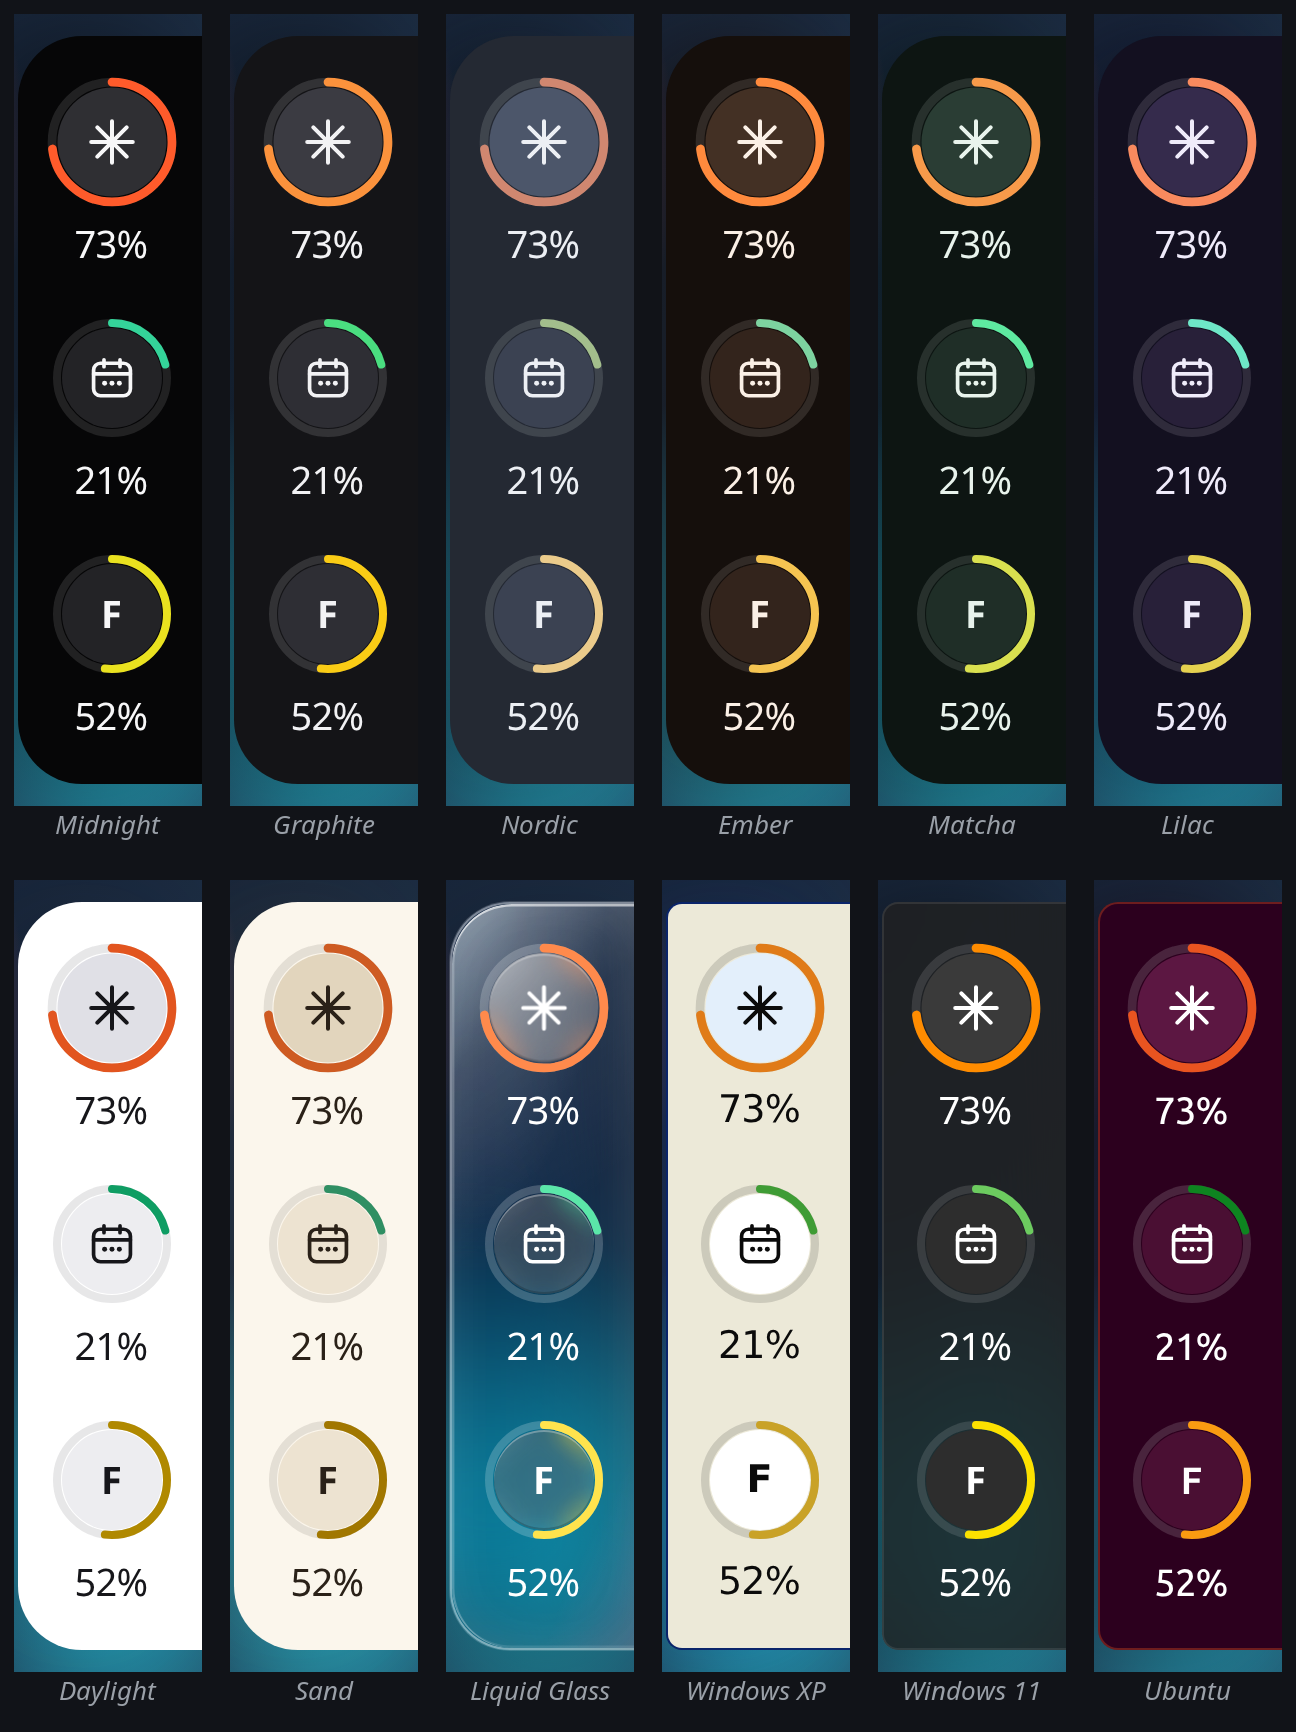
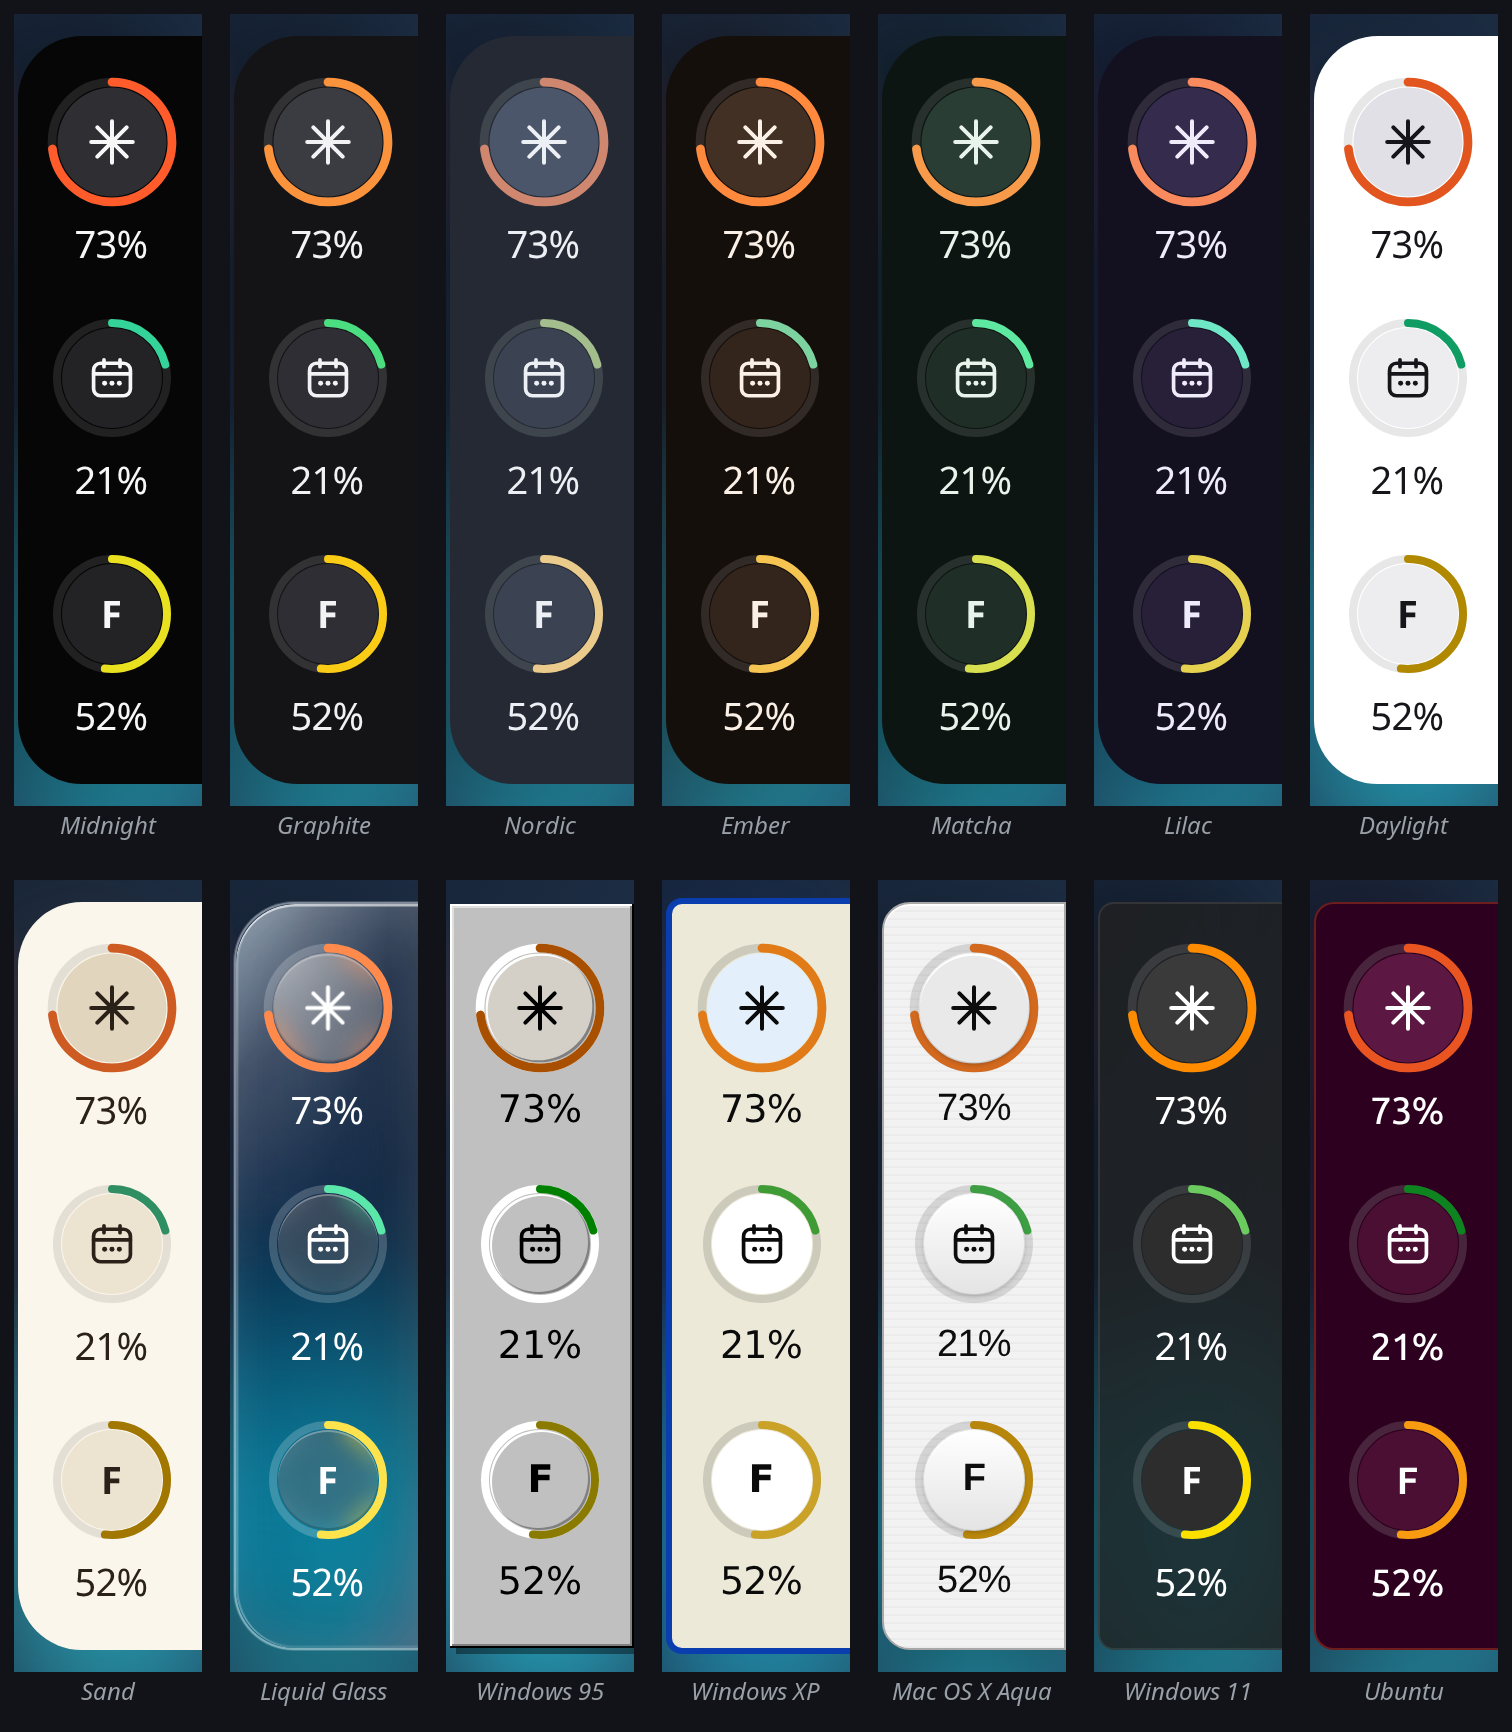
Windows 95, a properly retro XP, and Mac OS X Aqua
Colours cannot express an era, so a theme may now bring its own chrome. Windows
95 gets the double bevel, square corners and segmented progress blocks; XP gets
the Luna frame, the glossy title bar and gel that fills in segments; Aqua gets
pinstripes, a lit top edge and progress bars that look wet. Each brings its own
typeface, and the chrome is replaced wholesale on every theme change so two eras
can never stack.

Rendering Windows 95 exposed a real bug: a corner radius of zero was being
thrown away, because the default was applied with || rather than ??. Square is
exactly what 95 asks for, and it was quietly getting 32 pixels of rounding. A
test now pins that, along with two others: a period theme has to carry real
chrome rather than be a recolour, and that chrome may contain style and nothing
else, no imports, no remote assets, no markup.

diff --git a/src/themes.js b/src/themes.js
@@ -100,6 +100,46 @@
       ui: { bg: '#1B1B20', sheet: '#26262D', accent: '#7DD3FC' }
     },
 
+    win95: {
+      name: 'Windows 95', dark: false,
+      pill: '#C0C0C0', panel: '#C0C0C0', face: '#C0C0C0', faceHot: '#D4D0C8',
+      ink: '#000000', inkDim: 'rgba(0, 0, 0, 0.55)',
+      track: '#FFFFFF', shadow: 'rgba(0, 0, 0, 0.45)',
+      ok: '#008000', warm: '#8A7A00', hot: '#A85000', crit: '#AA0000',
+      radiusPill: 0, radiusPanel: 0,
+      font: '"MS Sans Serif", "Microsoft Sans Serif", Tahoma, "DejaVu Sans", sans-serif',
+      header: { bg: 'linear-gradient(90deg, #000080 0%, #1084D0 100%)', ink: '#FFFFFF' },
+      ui: { bg: '#008080', sheet: '#C0C0C0', accent: '#000080' },
+      // The era's whole visual grammar is the bevel: two light edges, two dark
+      // ones, and no curves anywhere.
+      css: `
+        .pill, .panel {
+          border: none !important;
+          box-shadow:
+            inset -1px -1px 0 #000000, inset 1px 1px 0 #FFFFFF,
+            inset -2px -2px 0 #808080, inset 2px 2px 0 #DFDFDF,
+            3px 3px 0 rgba(0, 0, 0, 0.4) !important;
+        }
+        .pill { padding-right: 2px; }
+        .panel-head { border-radius: 0 !important; font-weight: 700; padding: 4px 6px !important; }
+        .panel-title { font-size: 12px; letter-spacing: 0; }
+        .ring-face { box-shadow: inset -1px -1px 0 #808080, inset 1px 1px 0 #FFFFFF; }
+        .bar {
+          height: 15px; border-radius: 0; background: #FFFFFF; padding: 2px;
+          box-shadow: inset 1px 1px 0 #808080, inset -1px -1px 0 #FFFFFF,
+                      inset 2px 2px 0 #000000;
+        }
+        .bar span {
+          border-radius: 0;
+          background: repeating-linear-gradient(90deg,
+            var(--tone) 0 9px, transparent 9px 12px);
+        }
+        .row-badge { border-radius: 0; box-shadow: inset -1px -1px 0 #808080, inset 1px 1px 0 #FFF; }
+        .pct, .row-name, .row-foot { letter-spacing: 0; }
+        .panel-tail { display: none; }
+      `
+    },
+
     winxp: {
       name: 'Windows XP', dark: false,
       pill: '#ECE9D8', panel: '#ECE9D8', face: '#FFFFFF', faceHot: '#E3EFFB',
@@ -113,7 +153,81 @@
         bg: 'linear-gradient(180deg, #4C93E8 0%, #2266D4 8%, #0A3EAF 46%, #0A2E8C 100%)',
         ink: '#FFFFFF'
       },
+      // Luna is a blue frame, a glossy title bar and green gel that fills in
+      // segments. Anything less is just beige.
+      css: `
+        .panel {
+          border: 3px solid #0A3EAF;
+          box-shadow: 0 8px 24px rgba(10, 36, 106, 0.45);
+        }
+        .pill { border: 3px solid #0A3EAF; border-right: none; }
+        .panel-head {
+          font-weight: 700;
+          text-shadow: 1px 1px 1px rgba(0, 0, 0, 0.55);
+          box-shadow: inset 0 1px 0 rgba(255, 255, 255, 0.5),
+                      inset 0 -1px 0 rgba(0, 0, 0, 0.25);
+          border-radius: 5px 5px 0 0 !important;
+        }
+        .bar {
+          height: 15px; border-radius: 3px; padding: 2px; background: #FFFFFF;
+          box-shadow: inset 0 0 0 1px #7F9DB9;
+        }
+        .bar span {
+          border-radius: 2px;
+          background-image:
+            linear-gradient(180deg, rgba(255, 255, 255, 0.6) 0%,
+              rgba(255, 255, 255, 0.05) 48%, rgba(0, 0, 0, 0.12) 100%),
+            repeating-linear-gradient(90deg, rgba(0, 0, 0, 0) 0 9px,
+              rgba(255, 255, 255, 0.85) 9px 12px);
+        }
+        .row-badge { border-radius: 3px; box-shadow: inset 0 0 0 1px #7F9DB9; }
+      `,
       ui: { bg: '#D6E5F5', sheet: '#ECE9D8', accent: '#245EDC' }
+    },
+
+    aqua: {
+      name: 'Mac OS X Aqua', dark: false,
+      pill: '#F2F2F2', panel: '#F0F0F0', face: '#FBFBFB', faceHot: '#E9E9E9',
+      ink: '#0D0D0D', inkDim: 'rgba(13, 13, 13, 0.55)',
+      track: 'rgba(0, 0, 0, 0.12)', shadow: 'rgba(0, 0, 0, 0.3)',
+      ok: '#3D9E43', warm: '#B8860B', hot: '#D2691E', crit: '#C42B1C',
+      radiusPill: 14, radiusPanel: 12,
+      font: '"Lucida Grande", "Lucida Sans Unicode", "Helvetica Neue", sans-serif',
+      header: { bg: 'linear-gradient(180deg, #FAFAFA 0%, #D6D6D6 100%)', ink: '#1A1A1A' },
+      ui: { bg: '#DCE4EE', sheet: '#F4F4F4', accent: '#3C7DD9' },
+      // Aqua was pinstripes, a lit top edge, and progress bars that looked wet.
+      css: `
+        .pill, .panel {
+          background-image: repeating-linear-gradient(0deg,
+            rgba(0, 0, 0, 0.028) 0 1px, transparent 1px 4px);
+          border: 1px solid #A8A8A8;
+          box-shadow: inset 0 1px 0 #FFFFFF, 0 10px 28px var(--shadow);
+        }
+        .panel-head {
+          border-bottom: 1px solid #B4B4B4;
+          box-shadow: inset 0 1px 0 #FFFFFF;
+          border-radius: 11px 11px 0 0 !important;
+        }
+        .ring-face {
+          background-image: linear-gradient(180deg, #FFFFFF 0%, #E4E4E4 100%);
+          box-shadow: inset 0 1px 0 #FFFFFF, 0 1px 2px rgba(0, 0, 0, 0.22);
+        }
+        .bar {
+          height: 14px; border-radius: 7px;
+          background-image: linear-gradient(180deg, #D4D4D4 0%, #F0F0F0 100%);
+          box-shadow: inset 0 1px 3px rgba(0, 0, 0, 0.3), inset 0 -1px 0 #FFFFFF;
+        }
+        .bar span {
+          border-radius: 7px;
+          background-image:
+            linear-gradient(180deg, rgba(255, 255, 255, 0.85) 0%,
+              rgba(255, 255, 255, 0.28) 46%, rgba(255, 255, 255, 0) 52%),
+            repeating-linear-gradient(-45deg, rgba(255, 255, 255, 0.3) 0 7px,
+              transparent 7px 14px);
+          box-shadow: inset 0 0 0 1px rgba(0, 0, 0, 0.14);
+        }
+        .row-badge { border-radius: 9px; }
+      `
     },
 
     win11: {
@@ -168,11 +282,13 @@
       '--crit': t.crit,
       // Optional material properties. Absent means "behave like a flat theme",
       // which is why each one has a neutral default rather than being skipped.
-      '--blur': t.blur ? `${t.blur}px` : '0px',
-      '--saturate': t.saturate ? `${t.saturate}%` : '100%',
+      '--blur': `${t.blur ?? 0}px`,
+      '--saturate': `${t.saturate ?? 100}%`,
       '--border': t.border || 'transparent',
-      '--radius-pill': `${t.radiusPill || 32}px`,
-      '--radius-panel': `${t.radiusPanel || 24}px`,
+      // ?? and not ||: a radius of 0 is exactly what Windows 95 asks for, and
+      // || would quietly hand it 32.
+      '--radius-pill': `${t.radiusPill ?? 32}px`,
+      '--radius-panel': `${t.radiusPanel ?? 24}px`,
       '--sheen': t.sheen ? '1' : '0',
       '--font': t.font || 'inherit',
       '--header-bg': (t.header && t.header.bg) || 'transparent',
@@ -192,5 +308,10 @@
     };
   }
 
-  return { THEMES, DEFAULT, ids, get, widgetVars, uiVars };
+  /** A theme may bring its own chrome when colours cannot express an era. */
+  function themeCss(id) {
+    return get(id).css || '';
+  }
+
+  return { THEMES, DEFAULT, ids, get, widgetVars, uiVars, themeCss };
 }));

diff --git a/test/themes.test.js b/test/themes.test.js
@@ -99,4 +99,32 @@ test('a 24 hour setting shows 18:05 even in a 12 hour locale', () => {
   assert.ok(/PM/i.test(FORMAT.formatTime(at, 'fr-FR', '12')), 'AM/PM should win over the locale');
 });
 
+
+test('a theme that brings its own chrome brings only style', () => {
+  for (const id of THEMES.ids) {
+    const css = THEMES.themeCss(id);
+    assert.strictEqual(typeof css, 'string', `${id} returns something other than CSS`);
+    assert.ok(!/@import/i.test(css), `${id} imports a stylesheet, which would leave the app`);
+    assert.ok(!/url\(\s*['"]?https?:/i.test(css), `${id} fetches a remote asset`);
+    assert.ok(!/<\/?script/i.test(css), `${id} smuggles markup into a style block`);
+  }
+});
+
+test('every era theme actually carries its chrome', () => {
+  for (const id of ['win95', 'winxp', 'aqua']) {
+    assert.ok(THEMES.themeCss(id).length > 200, `${id} would be a flat recolour`);
+    assert.ok(THEMES.get(id).font, `${id} has no typeface of its own`);
+  }
+  assert.strictEqual(THEMES.themeCss('midnight'), '',
+    'a plain theme should not drag chrome along');
+});
+
+
+test('a radius of zero survives, because Windows 95 means zero', () => {
+  assert.strictEqual(THEMES.widgetVars('win95')['--radius-pill'], '0px',
+    'a falsy-but-meaningful value must not be replaced by the default');
+  assert.strictEqual(THEMES.widgetVars('win95')['--radius-panel'], '0px');
+  assert.strictEqual(THEMES.widgetVars('midnight')['--radius-pill'], '32px');
+});
+
 console.log(`\n${passed} theme and format tests passed`);

diff --git a/src/renderer/app.js b/src/renderer/app.js
@@ -97,6 +97,10 @@ function applyTheme() {
   root2.dataset.sheen = t.sheen ? '1' : '0';
   root2.dataset.hasFont = t.font ? 'true' : 'false';
   root2.dataset.header = t.header ? 'true' : 'false';
+  // Colours alone cannot express a bevel or a pinstripe, so a theme may bring
+  // its own chrome. Replaced wholesale, never appended, or two eras would
+  // stack on top of each other.
+  document.getElementById('themeCss').textContent = THEMES.themeCss(theme);
 }
 
 function applyGeometry() {

diff --git a/src/renderer/index.html b/src/renderer/index.html
@@ -5,6 +5,7 @@
 <meta http-equiv="Content-Security-Policy" content="default-src 'none'; style-src 'self' 'unsafe-inline'; script-src 'self'; img-src 'self' data:">
 <title>Claude Marge Widget</title>
 <link rel="stylesheet" href="style.css">
+<style id="themeCss"></style>
 </head>
 <body>
   <div class="stage" id="stage">

diff --git a/README.fr.md b/README.fr.md
@@ -162,18 +162,27 @@ silence complet. `shortcut` bascule l'épinglage ; mets `""` pour n'enregistrer
 aucun raccourci. `language` vaut `auto`, ou l'un de `en`, `fr`, `es`, `de`,
 `it`, `zh`, `ja`. `checkUpdates` active ou coupe la vérification quotidienne du
 dépôt. `theme` vaut `midnight`, `graphite`, `nordic`, `ember`, `matcha`,
-`lilac`, `daylight`, `sand`, `glass`, `winxp`, `win11` ou `ubuntu`.
+`lilac`, `daylight`, `sand`, `glass`, `win95`, `winxp`, `aqua`, `win11` ou
+`ubuntu`.
 `timeFormat` vaut `auto`, `12` ou `24`.
 `displayId` vaut `primary` ou un identifiant d'écran, et reste ignoré tant que
 le widget suit la souris.
 
-### Douze thèmes
+### Quatorze thèmes
 
 <img src="docs/themes.png" alt="La pilule dans les huit thèmes : Midnight, Graphite, Nordic, Ember, Matcha, Lilac, Daylight et Sand" width="820">
 
-Six sombres neutres, deux clairs, et quatre qui ont un parti pris : **Liquid
-Glass**, **Windows XP** avec sa barre de titre Luna, **Windows 11** en Mica, et
-**Ubuntu** en aubergine Yaru. Les couleurs de jauge restent sémantiques dans
+Six sombres neutres, deux clairs, et six qui ont un parti pris : **Liquid
+Glass**, **Windows 95**, **Windows XP**, **Mac OS X Aqua**, **Windows 11** en
+Mica, et **Ubuntu** en aubergine Yaru.
+
+Les trois thèmes d'époque ne sont pas des recolorisations. Les couleurs seules
+ne savent pas dire une époque, donc un thème peut apporter son propre chrome :
+Windows 95 reçoit le double biseau, les angles droits et les blocs de
+progression segmentés ; Windows XP le cadre bleu Luna, sa barre de titre
+vernie et le gel qui se remplit par segments ; Mac OS X Aqua les rayures fines,
+l'arête haute éclairée et les barres striées bonbon qui avaient l'air mouillées.
+Chacun amène sa typographie avec lui. Les couleurs de jauge restent sémantiques dans
 tous : vert veut dire qu'il reste de la marge, rouge que le plafond est proche,
 et les thèmes clairs reçoivent des teintes plus foncées et plus denses, parce
 qu'un jaune pâle sur blanc ne dit rien du tout. La fenêtre de réglages porte
@@ -264,7 +273,7 @@ jour**, il regarde une fois par jour et te dit quand quelque chose attend, une
 seule fois par version, sans jamais rien installer de lui-même.
 
 Le point qui compte : **une mise à jour qui casse les tests est annulée.** Le
-commit d'origine est noté d'abord, les 72 tests tournent avant la relance, et un
+commit d'origine est noté d'abord, les 75 tests tournent avant la relance, et un
 échec ramène la copie exactement où elle était. Une mauvaise publication en
 amont ne peut pas te laisser un widget mort.
 
@@ -311,7 +320,7 @@ Commandes utiles :
 npm start                         # comportement au survol
 npm run demo                      # reste ouvert, pratique pour régler la position
 npm run usage                     # les quotas bruts en JSON, sans interface
-npm test                          # 72 tests
+npm test                          # 75 tests
 tail ~/.claude-marge/widget.log   # une ligne par changement d'état
 ```
 
@@ -319,7 +328,7 @@ tail ~/.claude-marge/widget.log   # une ligne par changement d'état
 
 ## Ce qui est vérifié
 
-`npm test` lance 72 tests, sur les endroits où une erreur se voit tout de suite.
+`npm test` lance 75 tests, sur les endroits où une erreur se voit tout de suite.
 
 **La géométrie du survol et les écrans, 22 tests.** Le bord droit en
 multi-écrans, la jointure entre deux écrans qui ne déclenche jamais, un écran
@@ -328,12 +337,15 @@ l'écran quel que soit le nombre de modèles, et surtout l'absence de
 clignotement : la zone qui garde le widget ouvert doit toujours contenir la
 bande qui le déclenche.
 
-**Les thèmes et le format d'heure, 9 tests.** Chaque thème définit toutes ses
+**Les thèmes et le format d'heure, 12 tests.** Chaque thème définit toutes ses
 surfaces et toutes ses teintes, un thème inconnu retombe sur un autre plutôt que
 de ne rien peindre, les quatre teintes restent distinctes pour que les jauges ne
 mentent pas, les thèmes clairs utilisent une encre foncée et l'inverse, un thème
-translucide doit déclarer son matériau au lieu d'être un simple voile, et `auto`
-laisse vraiment la locale décider au lieu de forcer un cycle.
+translucide doit déclarer son matériau au lieu d'être un simple voile, un thème
+d'époque porte vraiment son chrome au lieu d'être une recolorisation, ce chrome
+ne contient que du style, un rayon d'angle nul survit au lieu d'être remplacé
+par la valeur par défaut, et `auto` laisse vraiment la locale décider au lieu de
+forcer un cycle.
 
 **La normalisation des quotas, 8 tests.** Un quota absent ne devient jamais un
 zéro affiché, un modèle exposé deux fois par l'API n'apparaît qu'une fois, une

diff --git a/README.md b/README.md
@@ -156,17 +156,24 @@ does not notify you every two minutes. Set it to `[]` to stay silent.
 `language` is `auto`, or one of `en`, `fr`, `es`, `de`, `it`, `zh`, `ja`.
 `checkUpdates` turns the daily look at the repository on and off. `theme` is one
 of `midnight`, `graphite`, `nordic`, `ember`, `matcha`, `lilac`, `daylight`,
-`sand`, `glass`, `winxp`, `win11`, `ubuntu`. `timeFormat` is `auto`, `12` or
-`24`. `displayId` is `primary` or a
+`sand`, `glass`, `win95`, `winxp`, `aqua`, `win11`, `ubuntu`. `timeFormat` is
+`auto`, `12` or `24`. `displayId` is `primary` or a
 screen id, and is ignored while the widget follows the mouse.
 
-### Twelve themes
+### Fourteen themes
 
 <img src="docs/themes.png" alt="The pill in the eight themes: Midnight, Graphite, Nordic, Ember, Matcha, Lilac, Daylight and Sand" width="820">
 
-Six neutral darks, two lights, and four with a point of view: **Liquid Glass**,
-**Windows XP** with its Luna title bar, **Windows 11** in Mica, and **Ubuntu**
-in Yaru aubergine. The gauge tones stay semantic in every one of them: green
+Six neutral darks, two lights, and six with a point of view: **Liquid Glass**,
+**Windows 95**, **Windows XP**, **Mac OS X Aqua**, **Windows 11** in Mica, and
+**Ubuntu** in Yaru aubergine.
+
+The three period themes are not recolours. Colours alone cannot express an era,
+so a theme may bring its own chrome: Windows 95 gets the double bevel, square
+corners and segmented progress blocks; Windows XP gets the Luna blue frame, its
+glossy title bar and gel that fills in segments; Mac OS X Aqua gets pinstripes,
+a lit top edge and the candy-striped progress bars that looked wet. Each one
+brings its typeface with it. The gauge tones stay semantic in every one of them: green
 means room left, red means the ceiling is close, and the light themes get
 darker, denser tones because a pale yellow on white says nothing at all. The
 settings window wears the theme too, so the choice previews itself.
@@ -251,7 +258,7 @@ once a day and tells you when something is waiting, once per version, and never
 installs anything on its own.
 
 The part worth knowing: **an update that breaks the test suite is undone.**
-The commit you were on is recorded first, the 72 tests run before the restart,
+The commit you were on is recorded first, the 75 tests run before the restart,
 and a failure rolls the checkout back to where it was. A bad push upstream
 cannot leave you with a dead widget.
 
@@ -296,7 +303,7 @@ Useful commands:
 npm start                      # hover behaviour
 npm run demo                   # stays open, handy for positioning
 npm run usage                  # raw quotas as JSON, no interface
-npm test                       # 72 tests
+npm test                       # 75 tests
 tail ~/.claude-marge/widget.log   # one line per state change
 ```
 
@@ -304,7 +311,7 @@ tail ~/.claude-marge/widget.log   # one line per state change
 
 ## What is verified
 
-`npm test` runs 72 tests, covering the places where a mistake shows up
+`npm test` runs 75 tests, covering the places where a mistake shows up
 immediately.
 
 **Hover geometry and displays, 22 tests.** The right edge of a multi-monitor
@@ -313,12 +320,14 @@ been unplugged falling back to the primary, the window staying on screen
 whatever the number of models, and above all the absence of flicker: the area
 that keeps the widget open must always contain the strip that triggers it.
 
-**Themes and time format, 9 tests.** Every theme defines every surface and tone,
+**Themes and time format, 12 tests.** Every theme defines every surface and tone,
 an unknown one falls back rather than painting nothing, the four tones stay
 distinct so the gauges cannot lie, light themes use dark ink and dark themes
 light ink, a translucent theme has to declare its material rather than being a
-flat wash, and `auto` genuinely lets the locale decide instead of forcing a
-cycle.
+flat wash, a period theme really carries its chrome instead of being a
+recolour, that chrome contains style and nothing else, a corner radius of zero
+survives rather than being replaced by the default, and `auto` genuinely lets
+the locale decide instead of forcing a cycle.
 
 **Quota normalisation, 8 tests.** A missing quota never becomes a displayed
 zero, a model exposed twice by the API appears once, an empty response does not
